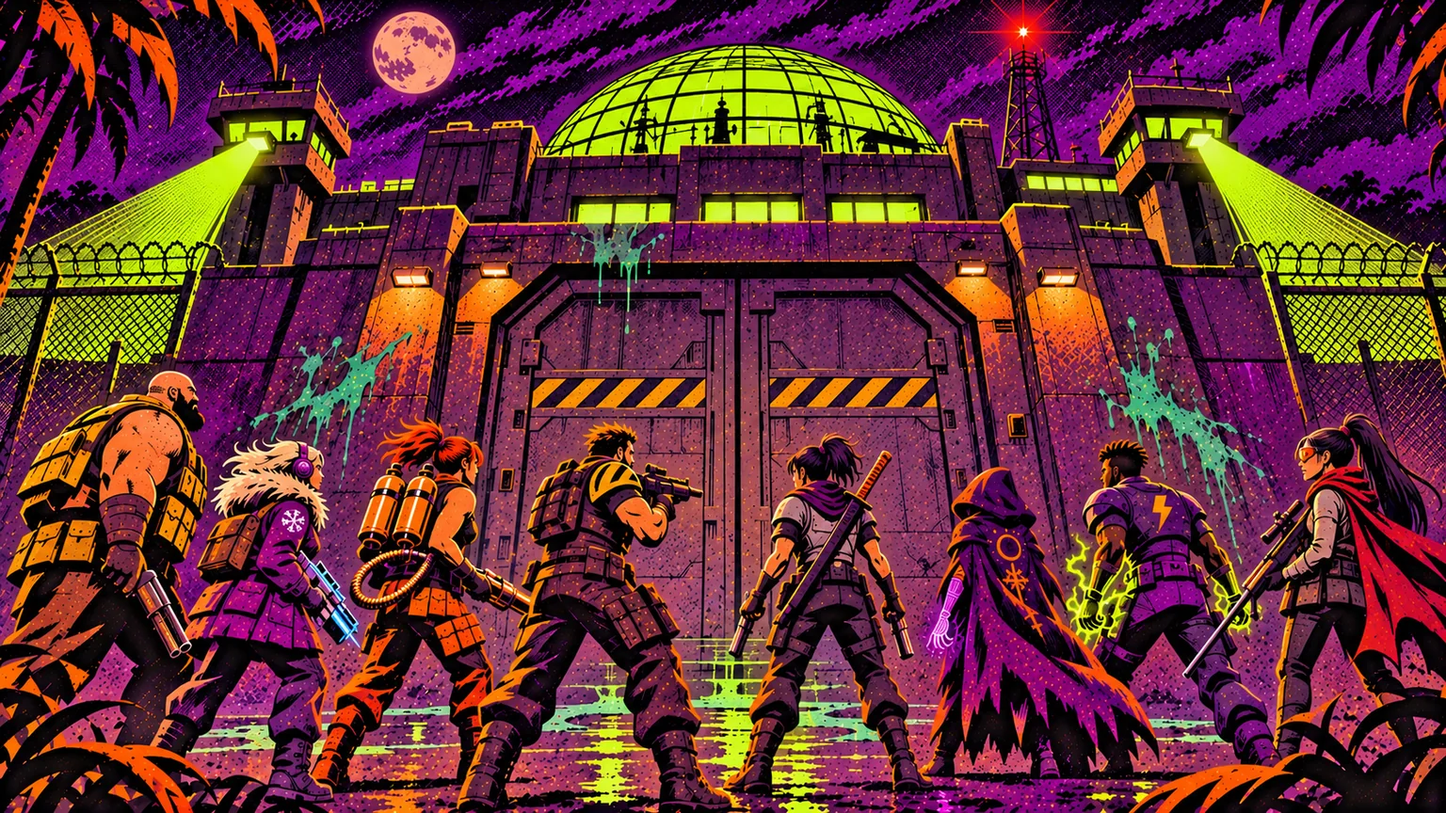
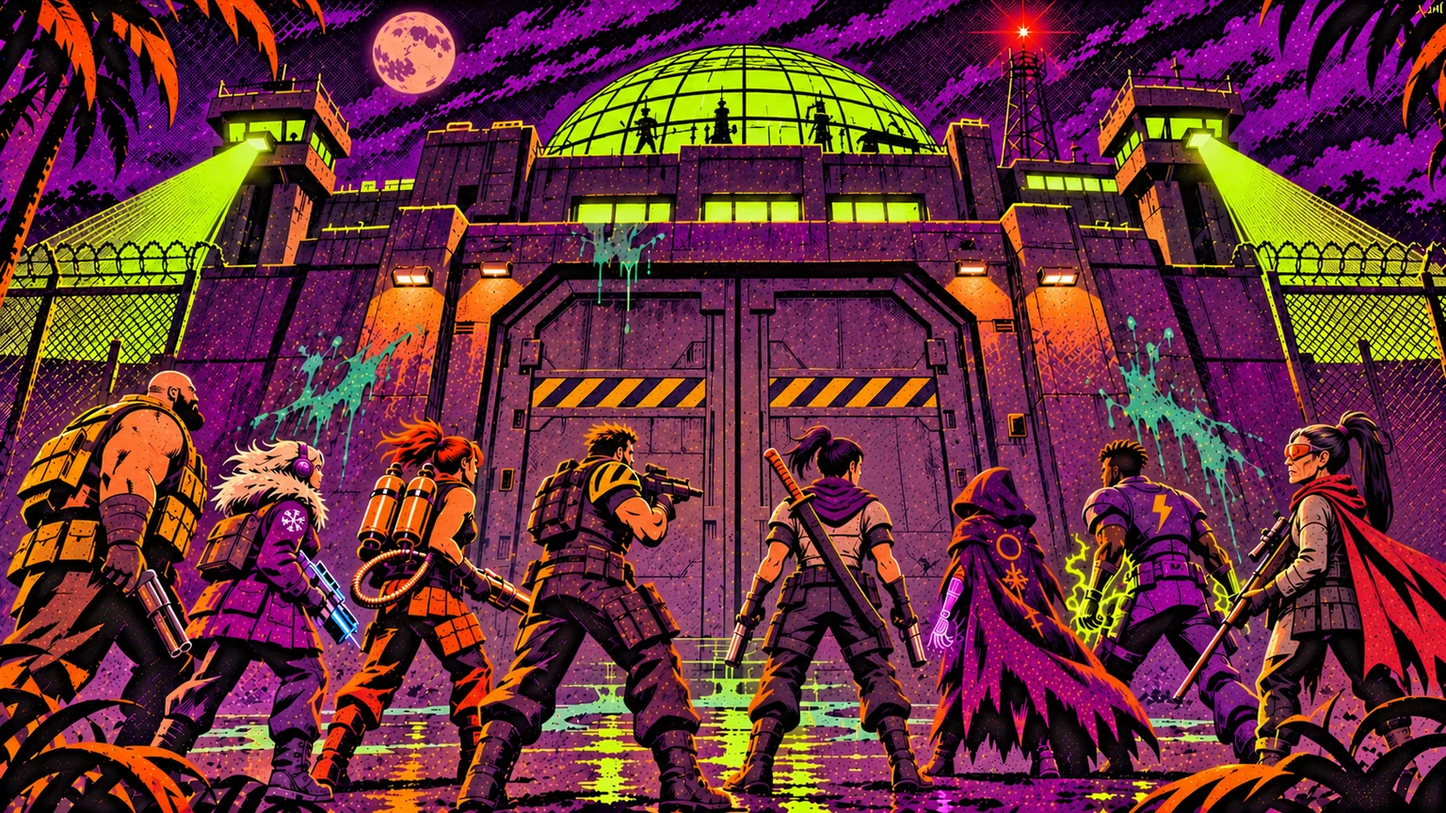
Stage 8: all three lab-doors shots
Claude-Session: https://claude.ai/code/session_011TPi5fyk4GLuTR427GHKeK

Changed region(s): [[0.0, 0.0, 1.0, 1.0], [0.4688, 0.4375, 0.5, 0.4688], [0.0, 0.9688, 0.0312, 1.0]]

diff --git a/game.js b/game.js
@@ -4518,7 +4518,7 @@ document.addEventListener('visibilitychange',()=>{if(document.hidden){persist();
 
 /* ---------- INTRO CUTSCENE: riso-print panels with partial animation ---------- */
 const CINE_META={"gas": {"n": 6, "fw": 330.4, "fh": 248.49999999999997}, "crowd": {"n": 6, "fw": 237.99999999999997, "fh": 239.39999999999998}, "arm": {"n": 6, "fw": 209.4, "fh": 288.0}, "shadow": {"n": 6, "fw": 268, "fh": 102.0}, "wave": {"n": 4, "fw": 411, "fh": 117.0}, "lift": {"n": 4, "fw": 402.0, "fh": 492.0}, "bike": {"n": 4, "fw": 332.0, "fh": 300.8}, "leap": {"n": 4, "fw": 247.20000000000002, "fh": 326.40000000000003}, "bikef": {"n": 4, "fw": 350.40000000000003, "fh": 324.0}, "c3horde": {"n": 8, "fw": 320.4, "fh": 175.79999999999998}, "c3truck": {"n": 8, "fw": 137.5, "fh": 128.0}, "c3smoke": {"n": 8, "fw": 164.4, "fh": 103.2}, "c3peek": {"n": 8, "fw": 164.4, "fh": 121.8}, "c3beam": {"n": 8, "fw": 191.79999999999998, "fh": 72.8}, "c3fog": {"n": 8, "fw": 411.20000000000005, "fh": 192.8}, "c3spark": {"n": 8, "fw": 306.0, "fh": 162.0}, "c3fire": {"n": 8, "fw": 175.5, "fh": 210.6}, "c3ember": {"n": 8, "fw": 156.0, "fh": 160.0}, "c3flash": {"n": 8, "fw": 175.5, "fh": 176.4}, "c4ring": {"n": 4, "fw": 389.75, "fh": 140}, "c4spark": {"n": 4, "fw": 389.75, "fh": 210}, "c4fog": {"n": 4, "fw": 389.75, "fh": 140}, "c4burst": {"n": 4, "fw": 389.75, "fh": 255}};
-const CINE_SRC={"s8_i1": "assets/cine/s8_i1.webp?v=9a4280222d", "s8_i2_solo": "assets/cine/s8_i2_solo.webp?v=24c3bcee89", "s8_i2_core": "assets/cine/s8_i2_core.webp?v=d760240a9e", "s8_i2_full": "assets/cine/s8_i2_full.webp?v=72238592eb", "s8_i3_solo": "assets/cine/s8_i3_solo.webp?v=0fa2d7f964", "s8_i3_core": "assets/cine/s8_i3_core.webp?v=02e6b8a98e", "s8_i3_full": "assets/cine/s8_i3_full.webp?v=9ea9867c60", "s8_e1_full": "assets/cine/s8_e1_full.webp?v=028916c46d", "s8_g1": "assets/cine/s8_g1.webp?v=9ac3b10686", "s8_g2": "assets/cine/s8_g2.webp?v=b070258411", "s6_e2_all_rook": "assets/cine/s6_e2_all_rook.webp?v=4401cd3b2b", "s7_t1": "assets/cine/s7_t1.webp?v=06b181e758", "s7_t2": "assets/cine/s7_t2.webp?v=d6cf2d5789", "s7_t3": "assets/cine/s7_t3.webp?v=d6cf2d5789", "nr_i1": "assets/cine/nr_i1.webp?v=5cfc3d84f8", "nr_i2": "assets/cine/nr_i2.webp?v=9f886d1d32", "nr_n1_blaze": "assets/cine/nr_n1_blaze.webp?v=5c43b3df56", "nr_n1_bruno": "assets/cine/nr_n1_bruno.webp?v=1bfcd39e25", "nr_n1_rook": "assets/cine/nr_n1_rook.webp?v=286d2a5c5d", "nr_n2": "assets/cine/nr_n2.webp?v=710b5d080f", "nr_h1": "assets/cine/nr_h1.webp?v=9e21c02d19", "nr_h1_none": "assets/cine/nr_h1_none.webp?v=c99008ab1a", "nr_h2": "assets/cine/nr_h2.webp?v=5e9c91b520", "nr_h3": "assets/cine/nr_h3.webp?v=2caf9a8b5d", "nr_r1": "assets/cine/nr_r1.webp?v=1b88ad5e04", "nr_r2": "assets/cine/nr_r2.webp?v=f72b25f794", "nr_l1_blaze": "assets/cine/nr_l1_blaze.webp?v=5bba065300", "nr_l1_bruno": "assets/cine/nr_l1_bruno.webp?v=ce7380a259", "nr_l1_rook": "assets/cine/nr_l1_rook.webp?v=33ad630a39", "nr_l2": "assets/cine/nr_l2.webp?v=0d11089e84", "nr_c1": "assets/cine/nr_c1.webp?v=8bbfbabb7c", "nr_c2": "assets/cine/nr_c2.webp?v=09fcda81cc", "s7_r1": "assets/cine/s7_r1.webp?v=91b9fedbcf", "s7_f2": "assets/cine/s7_f2.webp?v=0f4fe1fc30", "s7_f1": "assets/cine/s7_f1.webp?v=07e66d8144", "s7_i2": "assets/cine/s7_i2.webp?v=6170a36f72", "s7_i1": "assets/cine/s7_i1.webp?v=1490e04713", "s1": "assets/cine/s1.webp?v=243c333768", "s2": "assets/cine/s2.webp?v=550e74da9a", "s3": "assets/cine/s3.webp?v=70cc779e19", "s4": "assets/cine/s4.webp?v=a7032a396c", "s5": "assets/cine/s5.webp?v=d9c16aae06", "s6": "assets/cine/s6.webp?v=7be0ebed55", "s7": "assets/cine/s7.webp?v=fc9f6ba24a", "s8": "assets/cine/s8.webp?v=1621073ea0", "gas": "assets/cine/gas.webp?v=315d27fe85", "crowd": "assets/cine/crowd.webp?v=63ce1e7073", "arm": "assets/cine/arm.webp?v=6bf76ce38f", "shadow": "assets/cine/shadow.webp?v=d6f37fc102", "wave": "assets/cine/wave.webp?v=23e8a4a53d", "w1": "assets/cine/w1.webp?v=c8f04b9c22", "w2": "assets/cine/w2.webp?v=0ed40fe71c", "w3": "assets/cine/w3.webp?v=70c8685020", "w4": "assets/cine/w4.webp?v=dbcff62397", "w5": "assets/cine/w5.webp?v=b5b30b1db7", "w6": "assets/cine/w6.webp?v=af200e06c2", "w7": "assets/cine/w7.webp?v=3950081f16", "w8": "assets/cine/w8.webp?v=f8d626832c", "lift": "assets/cine/lift.webp?v=370ce17c98", "r1": "assets/cine/r1.webp?v=3e4ef51c5c", "r2": "assets/cine/r2.webp?v=897e15e59c", "r3": "assets/cine/r3.webp?v=8a0a030f90", "r4": "assets/cine/r4.webp?v=a3521f3cb0", "r5": "assets/cine/r5.webp?v=97fb173298", "r6": "assets/cine/r6.webp?v=3ac4fdbb0d", "bike": "assets/cine/bike.webp?v=c67a4ad3e0", "leap": "assets/cine/leap.webp?v=970a293fe8", "bikef": "assets/cine/bikef.webp?v=ee94861b81", "b1": "assets/cine/b1.webp?v=ec2cd2723f", "b2": "assets/cine/b2.webp?v=01cf7f9c7b", "b6": "assets/cine/b6.webp?v=b63e26f414", "b7": "assets/cine/b7.webp?v=b6c3b43136", "b8": "assets/cine/b8.webp?v=f269e85dc3", "br1": "assets/cine/br1.webp?v=26cde8d39b", "x01": "assets/cine/x01.webp?v=57c1a8b59a", "x02": "assets/cine/x02.webp?v=278ed750fd", "xa3": "assets/cine/xa3.webp?v=63f1e488b3", "xa4": "assets/cine/xa4.webp?v=e283c3e464", "xa5": "assets/cine/xa5.webp?v=c231911ed0", "xa6": "assets/cine/xa6.webp?v=5d44e267c6", "xa7": "assets/cine/xa7.webp?v=d1a42b40c1", "xb3": "assets/cine/xb3.webp?v=759b78c0b1", "xb4": "assets/cine/xb4.webp?v=df36359644", "xb5": "assets/cine/xb5.webp?v=319fbf1c6f", "xb6": "assets/cine/xb6.webp?v=dc55f12004", "xb7": "assets/cine/xb7.webp?v=2603ef086d", "xb8": "assets/cine/xb8.webp?v=213337a3cb", "xv1": "assets/cine/xv1.webp?v=f0b1f7bc58", "xv2": "assets/cine/xv2.webp?v=f08c546b7d", "xv3": "assets/cine/xv3.webp?v=8dfbfd654f", "xv4": "assets/cine/xv4.webp?v=0519294f79", "xv5": "assets/cine/xv5.webp?v=2de26c5075", "xv6": "assets/cine/xv6.webp?v=8bdeb41aa8", "xv7": "assets/cine/xv7.webp?v=457158d6d8", "xf1": "assets/cine/xf1.webp?v=53c018c3db", "xf2": "assets/cine/xf2.webp?v=4ac30cc35b", "xf3": "assets/cine/xf3.webp?v=9db92f2352", "xf4": "assets/cine/xf4.webp?v=5b931210a4", "xf5": "assets/cine/xf5.webp?v=9d2c48c6dc", "xf6": "assets/cine/xf6.webp?v=5b89485ce3", "xw1": "assets/cine/xw1.webp?v=5768e46a45", "xw2": "assets/cine/xw2.webp?v=a02211f1a9", "xw3": "assets/cine/xw3.webp?v=e2a7715eca", "xl1": "assets/cine/xl1.webp?v=61a0c15c27", "xl2": "assets/cine/xl2.webp?v=26078fc2c4", "xrv1": "assets/cine/xrv1.webp?v=f284b5471c", "xrv2": "assets/cine/xrv2.webp?v=03d5736fe6", "xrv3": "assets/cine/xrv3.webp?v=5b2057f074", "xs1": "assets/cine/xs1.webp?v=bb79331e55", "xs2": "assets/cine/xs2.webp?v=f42fff5961", "xs2v": "assets/cine/xs2v.webp?v=17c61849a8", "xm1": "assets/cine/xm1.webp?v=9924e1689b", "c4ring": "assets/cine/c4ring.webp?v=4eac568207", "c4spark": "assets/cine/c4spark.webp?v=f398908cba", "c4fog": "assets/cine/c4fog.webp?v=1bac29ca7d", "c4burst": "assets/cine/c4burst.webp?v=c29024db4d", "c3horde": "assets/cine/c3horde.webp?v=51a1bcd882", "c3truck": "assets/cine/c3truck.webp?v=c3d079edb1", "c3smoke": "assets/cine/c3smoke.webp?v=104b4fcda5", "c3peek": "assets/cine/c3peek.webp?v=f5ee9d072a", "c3beam": "assets/cine/c3beam.webp?v=cf0d9e068c", "c3fog": "assets/cine/c3fog.webp?v=e27d3109d8", "c3spark": "assets/cine/c3spark.webp?v=8ec95a2788", "c3ember": "assets/cine/c3ember.webp?v=386f756069", "c3flash": "assets/cine/c3flash.webp?v=d9e65b2ea5", "vf_1": "assets/cine/vf_1.webp?v=ea41c3831b", "vf_2": "assets/cine/vf_2.webp?v=f3238d890d", "cfe_1": "assets/cine/cfe_1.webp?v=c23598f97d", "cfe_2": "assets/cine/cfe_2.webp?v=c588f8e618", "cfe_3": "assets/cine/cfe_3.webp?v=818bef84fc", "fa_o1": "assets/cine/fa_o1.webp?v=8a6421824d", "s5_i1": "assets/cine/s5_i1.webp?v=c1530b62ba", "s5_i2_all": "assets/cine/s5_i2_all.webp?v=c70cf3dd7d", "s5_i2_nv": "assets/cine/s5_i2_nv.webp?v=20c7110b00", "s5_i2_c": "assets/cine/s5_i2_c.webp?v=3dd3cea9b9", "s5_i3": "assets/cine/s5_i3.webp?v=2b44bf1bb9", "s5_i4_all": "assets/cine/s5_i4_all.webp?v=8d12393de4", "s5_i4_cbb": "assets/cine/s5_i4_cbb.webp?v=185b8f1242", "s5_i4_c": "assets/cine/s5_i4_c.webp?v=97fd1102ba", "s5_i5": "assets/cine/s5_i5.webp?v=87d5f76c8f", "s5_i6_all": "assets/cine/s5_i6_all.webp?v=51d53a0568", "s5_i6_r": "assets/cine/s5_i6_r.webp?v=ee86fe8e9b", "s5_i6_h": "assets/cine/s5_i6_h.webp?v=f5cc0c1e5f", "s5_i6_bb": "assets/cine/s5_i6_bb.webp?v=9faaafce4b", "s5_i6_b": "assets/cine/s5_i6_b.webp?v=f5a5109087", "s5_i6_c": "assets/cine/s5_i6_c.webp?v=501930d8e1", "s5_r1": "assets/cine/s5_r1.webp?v=2eb0245a05", "s5_r2": "assets/cine/s5_r2.webp?v=4d67efbcff", "s5_r3": "assets/cine/s5_r3.webp?v=9080fdc92e", "s5_h2": "assets/cine/s5_h2.webp?v=cd660508b0", "s5_v1": "assets/cine/s5_v1.webp?v=cee11150c2", "s5_v2": "assets/cine/s5_v2.webp?v=b6dbaa5598", "s5_w1": "assets/cine/s5_w1.webp?v=a58446eeeb", "s5_w2": "assets/cine/s5_w2.webp?v=e1b432e41f", "s5_w3": "assets/cine/s5_w3.webp?v=e285b9a4f9", "s5_w4": "assets/cine/s5_w4.webp?v=40c962405e", "s5_l2": "assets/cine/s5_l2.webp?v=5fc4b37a6a", "s5_p5_all": "assets/cine/s5_p5_all.webp?v=f39257db4c", "s5_p5_nv": "assets/cine/s5_p5_nv.webp?v=c12c32a989", "s5_p5_c": "assets/cine/s5_p5_c.webp?v=477f0e1625", "s5_p6": "assets/cine/s5_p6.webp?v=5a7dec1eb9", "s5_p2": "assets/cine/s5_p2.webp?v=525f20ff55", "s5_p7": "assets/cine/s5_p7.webp?v=3c5c6a258d", "s5_p8": "assets/cine/s5_p8.webp?v=0fb2fbaadd", "s5_p9": "assets/cine/s5_p9.webp?v=a96b1bbdf5", "s5_e0": "assets/cine/s5_e0.webp?v=9abdf1bcfc", "s5_e1": "assets/cine/s5_e1.webp?v=e912dcccd8", "s5_e2": "assets/cine/s5_e2.webp?v=ae0867e9d3", "s6_e0_blaze": "assets/cine/s6_e0_blaze.webp?v=5dc3306b8d", "s6_e0_rook": "assets/cine/s6_e0_rook.webp?v=30db9c8a72", "s6_e0_hex": "assets/cine/s6_e0_hex.webp?v=8cdab5c85d", "s6_e0_bruno": "assets/cine/s6_e0_bruno.webp?v=8d01a77af5", "s6_e0_volt": "assets/cine/s6_e0_volt.webp?v=e5d62bd1cd", "s6_e1_all_bruno": "assets/cine/s6_e1_all_bruno.webp?v=aed07432b4", "s6_e1_all_rook": "assets/cine/s6_e1_all_rook.webp?v=877c6a8901", "s6_e1_all_volt": "assets/cine/s6_e1_all_volt.webp?v=d6a864b5a4", "s6_e1_all_hex": "assets/cine/s6_e1_all_hex.webp?v=32e2a9ce7f", "s6_e1_all_blaze": "assets/cine/s6_e1_all_blaze.webp?v=3100dce3b7", "s6_e2_all_volt": "assets/cine/s6_e2_all_volt.webp?v=97e044f577", "s6_e2_all_blaze": "assets/cine/s6_e2_all_blaze.webp?v=2f6c18d6a8", "s6_e2_all_bruno": "assets/cine/s6_e2_all_bruno.webp?v=70eada57e4", "s6_e2_all_hex": "assets/cine/s6_e2_all_hex.webp?v=2ad198a073", "s6_i1": "assets/cine/s6_i1.webp?v=796b64e823", "s6_i2": "assets/cine/s6_i2.webp?v=82a3a2adde", "s6_i3": "assets/cine/s6_i3.webp?v=f5ab2909ef", "s6_e0": "assets/cine/s6_e0.webp?v=2e63806df7", "s6_e1_all": "assets/cine/s6_e1_all.webp?v=d67b6e7c35", "s6_e2": "assets/cine/s6_e2.webp?v=894d123673", "s6_e2_all": "assets/cine/s6_e2_all.webp?v=e145fda4e0", "s6_e3": "assets/cine/s6_e3.webp?v=1c51df6fd5", "s6_e3_all": "assets/cine/s6_e3_all.webp?v=5300815aaf", "fa_o1_br": "assets/cine/fa_o1_br.webp?v=37ebb90caf", "fa_o1_b": "assets/cine/fa_o1_b.webp?v=49067b53b2", "fa_o1_c": "assets/cine/fa_o1_c.webp?v=d12c251a27", "fa_o1_r": "assets/cine/fa_o1_r.webp?v=d29d274f59", "fa_o2": "assets/cine/fa_o2.webp?v=db89fe3998", "fa_o3": "assets/cine/fa_o3.webp?v=693bdddf63", "fa_o3b": "assets/cine/fa_o3b.webp?v=9eb34876bf", "fa_o4": "assets/cine/fa_o4.webp?v=57694ff55e", "fa_h_vbbr": "assets/cine/fa_h_vbbr.webp?v=60b70f9f7b", "fa_h_vbb": "assets/cine/fa_h_vbb.webp?v=9a70b164c6", "fa_h_r": "assets/cine/fa_h_r.webp?v=b0ffb1172b", "fa_h_b": "assets/cine/fa_h_b.webp?v=c648f372bd", "fa_h_bv": "assets/cine/fa_h_bv.webp?v=343a1b0cde", "fa_h_br": "assets/cine/fa_h_br.webp?v=7c0f07101b", "fa_h_bbr": "assets/cine/fa_h_bbr.webp?v=8cebd83f13", "fa_l_rook": "assets/cine/fa_l_rook.webp?v=c11ca82219", "fa_l_blaze": "assets/cine/fa_l_blaze.webp?v=ac303e4206", "fa_l_cmd": "assets/cine/fa_l_cmd.webp?v=c99355650f", "fa_roof": "assets/cine/fa_roof.webp?v=e32e2331b9", "fa_gate": "assets/cine/fa_gate.webp?v=624938a4d5", "fe_g1": "assets/cine/fe_g1.webp?v=fe0fbbe930", "fe_g2": "assets/cine/fe_g2.webp?v=9bc9371de9", "fe_g3": "assets/cine/fe_g3.webp?v=40f2869355", "fe_g4": "assets/cine/fe_g4.webp?v=bdf36722f2", "fe_g5": "assets/cine/fe_g5.webp?v=ef7f521978", "fe_g6": "assets/cine/fe_g6.webp?v=808d8f926c", "fe_g7": "assets/cine/fe_g7.webp?v=bdcb705c94", "fe_g8a": "assets/cine/fe_g8a.webp?v=761765d52c", "fe_g8b": "assets/cine/fe_g8b.webp?v=76e42e466a", "fe_g8c": "assets/cine/fe_g8c.webp?v=21a3e15754", "fe_g8d": "assets/cine/fe_g8d.webp?v=cc81d2e0ee", "fe_h1": "assets/cine/fe_h1.webp?v=73beca4a12", "fe_h2": "assets/cine/fe_h2.webp?v=8b7ff0a01b", "fe_h3": "assets/cine/fe_h3.webp?v=6305b20f31", "fe_w1a": "assets/cine/fe_w1a.webp?v=dd7349ffda", "fe_w1b": "assets/cine/fe_w1b.webp?v=8e85862c06", "fe_w1c": "assets/cine/fe_w1c.webp?v=ba2f531c3b", "fe_w1d": "assets/cine/fe_w1d.webp?v=3a94f8db5c", "fe_w2a": "assets/cine/fe_w2a.webp?v=aa1826e67f", "fe_w2b": "assets/cine/fe_w2b.webp?v=689e888fc6", "fe_w2c": "assets/cine/fe_w2c.webp?v=2de2a83355", "fe_w2d": "assets/cine/fe_w2d.webp?v=6a28284172", "fe_l1": "assets/cine/fe_l1.webp?v=4575ab6ef1", "fe_l2a": "assets/cine/fe_l2a.webp?v=1093ad83fc", "fe_l2b": "assets/cine/fe_l2b.webp?v=35bd80f539", "fe_n1c": "assets/cine/fe_n1c.webp?v=4658768862", "fe_n1d": "assets/cine/fe_n1d.webp?v=fa9ebcc55d", "fe_n2": "assets/cine/fe_n2.webp?v=0f687bda5c", "fe_n3c": "assets/cine/fe_n3c.webp?v=d4d05b60f8", "fe_n3d": "assets/cine/fe_n3d.webp?v=95e42af559", "fe_n4": "assets/cine/fe_n4.webp?v=31da651bcf", "te_t1": "assets/cine/te_t1.webp?v=584d2a9cfa", "te_t2a": "assets/cine/te_t2a.webp?v=fe492bd1ba", "te_t2b": "assets/cine/te_t2b.webp?v=8c05f539fc", "te_t2c": "assets/cine/te_t2c.webp?v=a11a51477b", "te_t2d": "assets/cine/te_t2d.webp?v=26beed7a3f", "te_t3": "assets/cine/te_t3.webp?v=817708c3de", "te_t4": "assets/cine/te_t4.webp?v=aa62671c0f", "te_t5a": "assets/cine/te_t5a.webp?v=5a6a434b7c", "te_t5b": "assets/cine/te_t5b.webp?v=67e35070ec", "te_t5c": "assets/cine/te_t5c.webp?v=d872d33a01", "te_t5d": "assets/cine/te_t5d.webp?v=566666704c", "te_t6": "assets/cine/te_t6.webp?v=c2e101c534", "te_t7": "assets/cine/te_t7.webp?v=9739b7ea64", "te_t8": "assets/cine/te_t8.webp?v=8713b55890", "te_w1": "assets/cine/te_w1.webp?v=753a7795e8", "te_w2a": "assets/cine/te_w2a.webp?v=54150808dc", "te_w2b": "assets/cine/te_w2b.webp?v=bef9b9aeb5", "te_w3": "assets/cine/te_w3.webp?v=cdb71249ca", "te_w4": "assets/cine/te_w4.webp?v=0f3149d82e", "te_w5": "assets/cine/te_w5.webp?v=63e3c99a0b", "te_l1": "assets/cine/te_l1.webp?v=8d2863cb46", "te_l2": "assets/cine/te_l2.webp?v=b3a97f8544", "te_l3": "assets/cine/te_l3.webp?v=3979192544", "te_l4a": "assets/cine/te_l4a.webp?v=b15dc704bb", "te_l4b": "assets/cine/te_l4b.webp?v=17f706673e", "te_e1": "assets/cine/te_e1.webp?v=5b8ed99e63", "te_e2": "assets/cine/te_e2.webp?v=81835e6d77"};
+const CINE_SRC={"s8_e1_core": "assets/cine/s8_e1_core.webp?v=98dcdcd6b4", "s8_e1_solo": "assets/cine/s8_e1_solo.webp?v=628f13d913", "s8_i1": "assets/cine/s8_i1.webp?v=9a4280222d", "s8_i2_solo": "assets/cine/s8_i2_solo.webp?v=24c3bcee89", "s8_i2_core": "assets/cine/s8_i2_core.webp?v=d760240a9e", "s8_i2_full": "assets/cine/s8_i2_full.webp?v=72238592eb", "s8_i3_solo": "assets/cine/s8_i3_solo.webp?v=0fa2d7f964", "s8_i3_core": "assets/cine/s8_i3_core.webp?v=02e6b8a98e", "s8_i3_full": "assets/cine/s8_i3_full.webp?v=9ea9867c60", "s8_e1_full": "assets/cine/s8_e1_full.webp?v=35855bea1e", "s8_g1": "assets/cine/s8_g1.webp?v=9ac3b10686", "s8_g2": "assets/cine/s8_g2.webp?v=b070258411", "s6_e2_all_rook": "assets/cine/s6_e2_all_rook.webp?v=4401cd3b2b", "s7_t1": "assets/cine/s7_t1.webp?v=06b181e758", "s7_t2": "assets/cine/s7_t2.webp?v=d6cf2d5789", "s7_t3": "assets/cine/s7_t3.webp?v=d6cf2d5789", "nr_i1": "assets/cine/nr_i1.webp?v=5cfc3d84f8", "nr_i2": "assets/cine/nr_i2.webp?v=9f886d1d32", "nr_n1_blaze": "assets/cine/nr_n1_blaze.webp?v=5c43b3df56", "nr_n1_bruno": "assets/cine/nr_n1_bruno.webp?v=1bfcd39e25", "nr_n1_rook": "assets/cine/nr_n1_rook.webp?v=286d2a5c5d", "nr_n2": "assets/cine/nr_n2.webp?v=710b5d080f", "nr_h1": "assets/cine/nr_h1.webp?v=9e21c02d19", "nr_h1_none": "assets/cine/nr_h1_none.webp?v=c99008ab1a", "nr_h2": "assets/cine/nr_h2.webp?v=5e9c91b520", "nr_h3": "assets/cine/nr_h3.webp?v=2caf9a8b5d", "nr_r1": "assets/cine/nr_r1.webp?v=1b88ad5e04", "nr_r2": "assets/cine/nr_r2.webp?v=f72b25f794", "nr_l1_blaze": "assets/cine/nr_l1_blaze.webp?v=5bba065300", "nr_l1_bruno": "assets/cine/nr_l1_bruno.webp?v=ce7380a259", "nr_l1_rook": "assets/cine/nr_l1_rook.webp?v=33ad630a39", "nr_l2": "assets/cine/nr_l2.webp?v=0d11089e84", "nr_c1": "assets/cine/nr_c1.webp?v=8bbfbabb7c", "nr_c2": "assets/cine/nr_c2.webp?v=09fcda81cc", "s7_r1": "assets/cine/s7_r1.webp?v=91b9fedbcf", "s7_f2": "assets/cine/s7_f2.webp?v=0f4fe1fc30", "s7_f1": "assets/cine/s7_f1.webp?v=07e66d8144", "s7_i2": "assets/cine/s7_i2.webp?v=6170a36f72", "s7_i1": "assets/cine/s7_i1.webp?v=1490e04713", "s1": "assets/cine/s1.webp?v=243c333768", "s2": "assets/cine/s2.webp?v=550e74da9a", "s3": "assets/cine/s3.webp?v=70cc779e19", "s4": "assets/cine/s4.webp?v=a7032a396c", "s5": "assets/cine/s5.webp?v=d9c16aae06", "s6": "assets/cine/s6.webp?v=7be0ebed55", "s7": "assets/cine/s7.webp?v=fc9f6ba24a", "s8": "assets/cine/s8.webp?v=1621073ea0", "gas": "assets/cine/gas.webp?v=315d27fe85", "crowd": "assets/cine/crowd.webp?v=63ce1e7073", "arm": "assets/cine/arm.webp?v=6bf76ce38f", "shadow": "assets/cine/shadow.webp?v=d6f37fc102", "wave": "assets/cine/wave.webp?v=23e8a4a53d", "w1": "assets/cine/w1.webp?v=c8f04b9c22", "w2": "assets/cine/w2.webp?v=0ed40fe71c", "w3": "assets/cine/w3.webp?v=70c8685020", "w4": "assets/cine/w4.webp?v=dbcff62397", "w5": "assets/cine/w5.webp?v=b5b30b1db7", "w6": "assets/cine/w6.webp?v=af200e06c2", "w7": "assets/cine/w7.webp?v=3950081f16", "w8": "assets/cine/w8.webp?v=f8d626832c", "lift": "assets/cine/lift.webp?v=370ce17c98", "r1": "assets/cine/r1.webp?v=3e4ef51c5c", "r2": "assets/cine/r2.webp?v=897e15e59c", "r3": "assets/cine/r3.webp?v=8a0a030f90", "r4": "assets/cine/r4.webp?v=a3521f3cb0", "r5": "assets/cine/r5.webp?v=97fb173298", "r6": "assets/cine/r6.webp?v=3ac4fdbb0d", "bike": "assets/cine/bike.webp?v=c67a4ad3e0", "leap": "assets/cine/leap.webp?v=970a293fe8", "bikef": "assets/cine/bikef.webp?v=ee94861b81", "b1": "assets/cine/b1.webp?v=ec2cd2723f", "b2": "assets/cine/b2.webp?v=01cf7f9c7b", "b6": "assets/cine/b6.webp?v=b63e26f414", "b7": "assets/cine/b7.webp?v=b6c3b43136", "b8": "assets/cine/b8.webp?v=f269e85dc3", "br1": "assets/cine/br1.webp?v=26cde8d39b", "x01": "assets/cine/x01.webp?v=57c1a8b59a", "x02": "assets/cine/x02.webp?v=278ed750fd", "xa3": "assets/cine/xa3.webp?v=63f1e488b3", "xa4": "assets/cine/xa4.webp?v=e283c3e464", "xa5": "assets/cine/xa5.webp?v=c231911ed0", "xa6": "assets/cine/xa6.webp?v=5d44e267c6", "xa7": "assets/cine/xa7.webp?v=d1a42b40c1", "xb3": "assets/cine/xb3.webp?v=759b78c0b1", "xb4": "assets/cine/xb4.webp?v=df36359644", "xb5": "assets/cine/xb5.webp?v=319fbf1c6f", "xb6": "assets/cine/xb6.webp?v=dc55f12004", "xb7": "assets/cine/xb7.webp?v=2603ef086d", "xb8": "assets/cine/xb8.webp?v=213337a3cb", "xv1": "assets/cine/xv1.webp?v=f0b1f7bc58", "xv2": "assets/cine/xv2.webp?v=f08c546b7d", "xv3": "assets/cine/xv3.webp?v=8dfbfd654f", "xv4": "assets/cine/xv4.webp?v=0519294f79", "xv5": "assets/cine/xv5.webp?v=2de26c5075", "xv6": "assets/cine/xv6.webp?v=8bdeb41aa8", "xv7": "assets/cine/xv7.webp?v=457158d6d8", "xf1": "assets/cine/xf1.webp?v=53c018c3db", "xf2": "assets/cine/xf2.webp?v=4ac30cc35b", "xf3": "assets/cine/xf3.webp?v=9db92f2352", "xf4": "assets/cine/xf4.webp?v=5b931210a4", "xf5": "assets/cine/xf5.webp?v=9d2c48c6dc", "xf6": "assets/cine/xf6.webp?v=5b89485ce3", "xw1": "assets/cine/xw1.webp?v=5768e46a45", "xw2": "assets/cine/xw2.webp?v=a02211f1a9", "xw3": "assets/cine/xw3.webp?v=e2a7715eca", "xl1": "assets/cine/xl1.webp?v=61a0c15c27", "xl2": "assets/cine/xl2.webp?v=26078fc2c4", "xrv1": "assets/cine/xrv1.webp?v=f284b5471c", "xrv2": "assets/cine/xrv2.webp?v=03d5736fe6", "xrv3": "assets/cine/xrv3.webp?v=5b2057f074", "xs1": "assets/cine/xs1.webp?v=bb79331e55", "xs2": "assets/cine/xs2.webp?v=f42fff5961", "xs2v": "assets/cine/xs2v.webp?v=17c61849a8", "xm1": "assets/cine/xm1.webp?v=9924e1689b", "c4ring": "assets/cine/c4ring.webp?v=4eac568207", "c4spark": "assets/cine/c4spark.webp?v=f398908cba", "c4fog": "assets/cine/c4fog.webp?v=1bac29ca7d", "c4burst": "assets/cine/c4burst.webp?v=c29024db4d", "c3horde": "assets/cine/c3horde.webp?v=51a1bcd882", "c3truck": "assets/cine/c3truck.webp?v=c3d079edb1", "c3smoke": "assets/cine/c3smoke.webp?v=104b4fcda5", "c3peek": "assets/cine/c3peek.webp?v=f5ee9d072a", "c3beam": "assets/cine/c3beam.webp?v=cf0d9e068c", "c3fog": "assets/cine/c3fog.webp?v=e27d3109d8", "c3spark": "assets/cine/c3spark.webp?v=8ec95a2788", "c3ember": "assets/cine/c3ember.webp?v=386f756069", "c3flash": "assets/cine/c3flash.webp?v=d9e65b2ea5", "vf_1": "assets/cine/vf_1.webp?v=ea41c3831b", "vf_2": "assets/cine/vf_2.webp?v=f3238d890d", "cfe_1": "assets/cine/cfe_1.webp?v=c23598f97d", "cfe_2": "assets/cine/cfe_2.webp?v=c588f8e618", "cfe_3": "assets/cine/cfe_3.webp?v=818bef84fc", "fa_o1": "assets/cine/fa_o1.webp?v=8a6421824d", "s5_i1": "assets/cine/s5_i1.webp?v=c1530b62ba", "s5_i2_all": "assets/cine/s5_i2_all.webp?v=c70cf3dd7d", "s5_i2_nv": "assets/cine/s5_i2_nv.webp?v=20c7110b00", "s5_i2_c": "assets/cine/s5_i2_c.webp?v=3dd3cea9b9", "s5_i3": "assets/cine/s5_i3.webp?v=2b44bf1bb9", "s5_i4_all": "assets/cine/s5_i4_all.webp?v=8d12393de4", "s5_i4_cbb": "assets/cine/s5_i4_cbb.webp?v=185b8f1242", "s5_i4_c": "assets/cine/s5_i4_c.webp?v=97fd1102ba", "s5_i5": "assets/cine/s5_i5.webp?v=87d5f76c8f", "s5_i6_all": "assets/cine/s5_i6_all.webp?v=51d53a0568", "s5_i6_r": "assets/cine/s5_i6_r.webp?v=ee86fe8e9b", "s5_i6_h": "assets/cine/s5_i6_h.webp?v=f5cc0c1e5f", "s5_i6_bb": "assets/cine/s5_i6_bb.webp?v=9faaafce4b", "s5_i6_b": "assets/cine/s5_i6_b.webp?v=f5a5109087", "s5_i6_c": "assets/cine/s5_i6_c.webp?v=501930d8e1", "s5_r1": "assets/cine/s5_r1.webp?v=2eb0245a05", "s5_r2": "assets/cine/s5_r2.webp?v=4d67efbcff", "s5_r3": "assets/cine/s5_r3.webp?v=9080fdc92e", "s5_h2": "assets/cine/s5_h2.webp?v=cd660508b0", "s5_v1": "assets/cine/s5_v1.webp?v=cee11150c2", "s5_v2": "assets/cine/s5_v2.webp?v=b6dbaa5598", "s5_w1": "assets/cine/s5_w1.webp?v=a58446eeeb", "s5_w2": "assets/cine/s5_w2.webp?v=e1b432e41f", "s5_w3": "assets/cine/s5_w3.webp?v=e285b9a4f9", "s5_w4": "assets/cine/s5_w4.webp?v=40c962405e", "s5_l2": "assets/cine/s5_l2.webp?v=5fc4b37a6a", "s5_p5_all": "assets/cine/s5_p5_all.webp?v=f39257db4c", "s5_p5_nv": "assets/cine/s5_p5_nv.webp?v=c12c32a989", "s5_p5_c": "assets/cine/s5_p5_c.webp?v=477f0e1625", "s5_p6": "assets/cine/s5_p6.webp?v=5a7dec1eb9", "s5_p2": "assets/cine/s5_p2.webp?v=525f20ff55", "s5_p7": "assets/cine/s5_p7.webp?v=3c5c6a258d", "s5_p8": "assets/cine/s5_p8.webp?v=0fb2fbaadd", "s5_p9": "assets/cine/s5_p9.webp?v=a96b1bbdf5", "s5_e0": "assets/cine/s5_e0.webp?v=9abdf1bcfc", "s5_e1": "assets/cine/s5_e1.webp?v=e912dcccd8", "s5_e2": "assets/cine/s5_e2.webp?v=ae0867e9d3", "s6_e0_blaze": "assets/cine/s6_e0_blaze.webp?v=5dc3306b8d", "s6_e0_rook": "assets/cine/s6_e0_rook.webp?v=30db9c8a72", "s6_e0_hex": "assets/cine/s6_e0_hex.webp?v=8cdab5c85d", "s6_e0_bruno": "assets/cine/s6_e0_bruno.webp?v=8d01a77af5", "s6_e0_volt": "assets/cine/s6_e0_volt.webp?v=e5d62bd1cd", "s6_e1_all_bruno": "assets/cine/s6_e1_all_bruno.webp?v=aed07432b4", "s6_e1_all_rook": "assets/cine/s6_e1_all_rook.webp?v=877c6a8901", "s6_e1_all_volt": "assets/cine/s6_e1_all_volt.webp?v=d6a864b5a4", "s6_e1_all_hex": "assets/cine/s6_e1_all_hex.webp?v=32e2a9ce7f", "s6_e1_all_blaze": "assets/cine/s6_e1_all_blaze.webp?v=3100dce3b7", "s6_e2_all_volt": "assets/cine/s6_e2_all_volt.webp?v=97e044f577", "s6_e2_all_blaze": "assets/cine/s6_e2_all_blaze.webp?v=2f6c18d6a8", "s6_e2_all_bruno": "assets/cine/s6_e2_all_bruno.webp?v=70eada57e4", "s6_e2_all_hex": "assets/cine/s6_e2_all_hex.webp?v=2ad198a073", "s6_i1": "assets/cine/s6_i1.webp?v=796b64e823", "s6_i2": "assets/cine/s6_i2.webp?v=82a3a2adde", "s6_i3": "assets/cine/s6_i3.webp?v=f5ab2909ef", "s6_e0": "assets/cine/s6_e0.webp?v=2e63806df7", "s6_e1_all": "assets/cine/s6_e1_all.webp?v=d67b6e7c35", "s6_e2": "assets/cine/s6_e2.webp?v=894d123673", "s6_e2_all": "assets/cine/s6_e2_all.webp?v=e145fda4e0", "s6_e3": "assets/cine/s6_e3.webp?v=1c51df6fd5", "s6_e3_all": "assets/cine/s6_e3_all.webp?v=5300815aaf", "fa_o1_br": "assets/cine/fa_o1_br.webp?v=37ebb90caf", "fa_o1_b": "assets/cine/fa_o1_b.webp?v=49067b53b2", "fa_o1_c": "assets/cine/fa_o1_c.webp?v=d12c251a27", "fa_o1_r": "assets/cine/fa_o1_r.webp?v=d29d274f59", "fa_o2": "assets/cine/fa_o2.webp?v=db89fe3998", "fa_o3": "assets/cine/fa_o3.webp?v=693bdddf63", "fa_o3b": "assets/cine/fa_o3b.webp?v=9eb34876bf", "fa_o4": "assets/cine/fa_o4.webp?v=57694ff55e", "fa_h_vbbr": "assets/cine/fa_h_vbbr.webp?v=60b70f9f7b", "fa_h_vbb": "assets/cine/fa_h_vbb.webp?v=9a70b164c6", "fa_h_r": "assets/cine/fa_h_r.webp?v=b0ffb1172b", "fa_h_b": "assets/cine/fa_h_b.webp?v=c648f372bd", "fa_h_bv": "assets/cine/fa_h_bv.webp?v=343a1b0cde", "fa_h_br": "assets/cine/fa_h_br.webp?v=7c0f07101b", "fa_h_bbr": "assets/cine/fa_h_bbr.webp?v=8cebd83f13", "fa_l_rook": "assets/cine/fa_l_rook.webp?v=c11ca82219", "fa_l_blaze": "assets/cine/fa_l_blaze.webp?v=ac303e4206", "fa_l_cmd": "assets/cine/fa_l_cmd.webp?v=c99355650f", "fa_roof": "assets/cine/fa_roof.webp?v=e32e2331b9", "fa_gate": "assets/cine/fa_gate.webp?v=624938a4d5", "fe_g1": "assets/cine/fe_g1.webp?v=fe0fbbe930", "fe_g2": "assets/cine/fe_g2.webp?v=9bc9371de9", "fe_g3": "assets/cine/fe_g3.webp?v=40f2869355", "fe_g4": "assets/cine/fe_g4.webp?v=bdf36722f2", "fe_g5": "assets/cine/fe_g5.webp?v=ef7f521978", "fe_g6": "assets/cine/fe_g6.webp?v=808d8f926c", "fe_g7": "assets/cine/fe_g7.webp?v=bdcb705c94", "fe_g8a": "assets/cine/fe_g8a.webp?v=761765d52c", "fe_g8b": "assets/cine/fe_g8b.webp?v=76e42e466a", "fe_g8c": "assets/cine/fe_g8c.webp?v=21a3e15754", "fe_g8d": "assets/cine/fe_g8d.webp?v=cc81d2e0ee", "fe_h1": "assets/cine/fe_h1.webp?v=73beca4a12", "fe_h2": "assets/cine/fe_h2.webp?v=8b7ff0a01b", "fe_h3": "assets/cine/fe_h3.webp?v=6305b20f31", "fe_w1a": "assets/cine/fe_w1a.webp?v=dd7349ffda", "fe_w1b": "assets/cine/fe_w1b.webp?v=8e85862c06", "fe_w1c": "assets/cine/fe_w1c.webp?v=ba2f531c3b", "fe_w1d": "assets/cine/fe_w1d.webp?v=3a94f8db5c", "fe_w2a": "assets/cine/fe_w2a.webp?v=aa1826e67f", "fe_w2b": "assets/cine/fe_w2b.webp?v=689e888fc6", "fe_w2c": "assets/cine/fe_w2c.webp?v=2de2a83355", "fe_w2d": "assets/cine/fe_w2d.webp?v=6a28284172", "fe_l1": "assets/cine/fe_l1.webp?v=4575ab6ef1", "fe_l2a": "assets/cine/fe_l2a.webp?v=1093ad83fc", "fe_l2b": "assets/cine/fe_l2b.webp?v=35bd80f539", "fe_n1c": "assets/cine/fe_n1c.webp?v=4658768862", "fe_n1d": "assets/cine/fe_n1d.webp?v=fa9ebcc55d", "fe_n2": "assets/cine/fe_n2.webp?v=0f687bda5c", "fe_n3c": "assets/cine/fe_n3c.webp?v=d4d05b60f8", "fe_n3d": "assets/cine/fe_n3d.webp?v=95e42af559", "fe_n4": "assets/cine/fe_n4.webp?v=31da651bcf", "te_t1": "assets/cine/te_t1.webp?v=584d2a9cfa", "te_t2a": "assets/cine/te_t2a.webp?v=fe492bd1ba", "te_t2b": "assets/cine/te_t2b.webp?v=8c05f539fc", "te_t2c": "assets/cine/te_t2c.webp?v=a11a51477b", "te_t2d": "assets/cine/te_t2d.webp?v=26beed7a3f", "te_t3": "assets/cine/te_t3.webp?v=817708c3de", "te_t4": "assets/cine/te_t4.webp?v=aa62671c0f", "te_t5a": "assets/cine/te_t5a.webp?v=5a6a434b7c", "te_t5b": "assets/cine/te_t5b.webp?v=67e35070ec", "te_t5c": "assets/cine/te_t5c.webp?v=d872d33a01", "te_t5d": "assets/cine/te_t5d.webp?v=566666704c", "te_t6": "assets/cine/te_t6.webp?v=c2e101c534", "te_t7": "assets/cine/te_t7.webp?v=9739b7ea64", "te_t8": "assets/cine/te_t8.webp?v=8713b55890", "te_w1": "assets/cine/te_w1.webp?v=753a7795e8", "te_w2a": "assets/cine/te_w2a.webp?v=54150808dc", "te_w2b": "assets/cine/te_w2b.webp?v=bef9b9aeb5", "te_w3": "assets/cine/te_w3.webp?v=cdb71249ca", "te_w4": "assets/cine/te_w4.webp?v=0f3149d82e", "te_w5": "assets/cine/te_w5.webp?v=63e3c99a0b", "te_l1": "assets/cine/te_l1.webp?v=8d2863cb46", "te_l2": "assets/cine/te_l2.webp?v=b3a97f8544", "te_l3": "assets/cine/te_l3.webp?v=3979192544", "te_l4a": "assets/cine/te_l4a.webp?v=b15dc704bb", "te_l4b": "assets/cine/te_l4b.webp?v=17f706673e", "te_e1": "assets/cine/te_e1.webp?v=5b8ed99e63", "te_e2": "assets/cine/te_e2.webp?v=81835e6d77"};
 const CI={};const CINE_FILES=['s1','s2','s3','s4','s5','s6','s7','s8','gas','crowd','arm','shadow','wave','w1','w2','w3','w4','w5','w6','w7','w8','lift','r1','r2','r3','r4','r5','r6','bike','leap','bikef','b1','b2','b6','b7','b8','br1'];
 const CINE_SHEETS=['gas','crowd','arm','shadow','wave','lift','bike','leap','bikef'];
 function cineLoadKeys(keys){for(const k of keys){if(CI[k]||!CINE_SRC[k])continue;const im=new Image();im.decoding='async';im.src=CINE_SRC[k];CI[k]=im;}}

diff --git a/index.html b/index.html
@@ -222,13 +222,13 @@ h3{font-size:12px;letter-spacing:.14em;text-transform:uppercase;color:var(--mute
   <div class="overlay" id="ov"></div>
 </div>
 
-<script>window.__VER='e2802dbb80';
+<script>window.__VER='77dd3fae20';
 if('serviceWorker' in navigator){navigator.serviceWorker.register('sw.js').catch(()=>{});}
 // when the app comes back from the background, check for a newer version and reload if the player is on a menu
 document.addEventListener('visibilitychange',()=>{if(document.hidden)return;
   fetch('version.json?t='+Date.now(),{cache:'no-store'}).then(r=>r.json()).then(d=>{
     if(d.v&&d.v!==window.__VER&&window.__canReload&&window.__canReload())location.reload();}).catch(()=>{});});
 </script>
-<script src="game.js?v=e2802dbb80"></script>
+<script src="game.js?v=77dd3fae20"></script>
 </body>
 </html>
